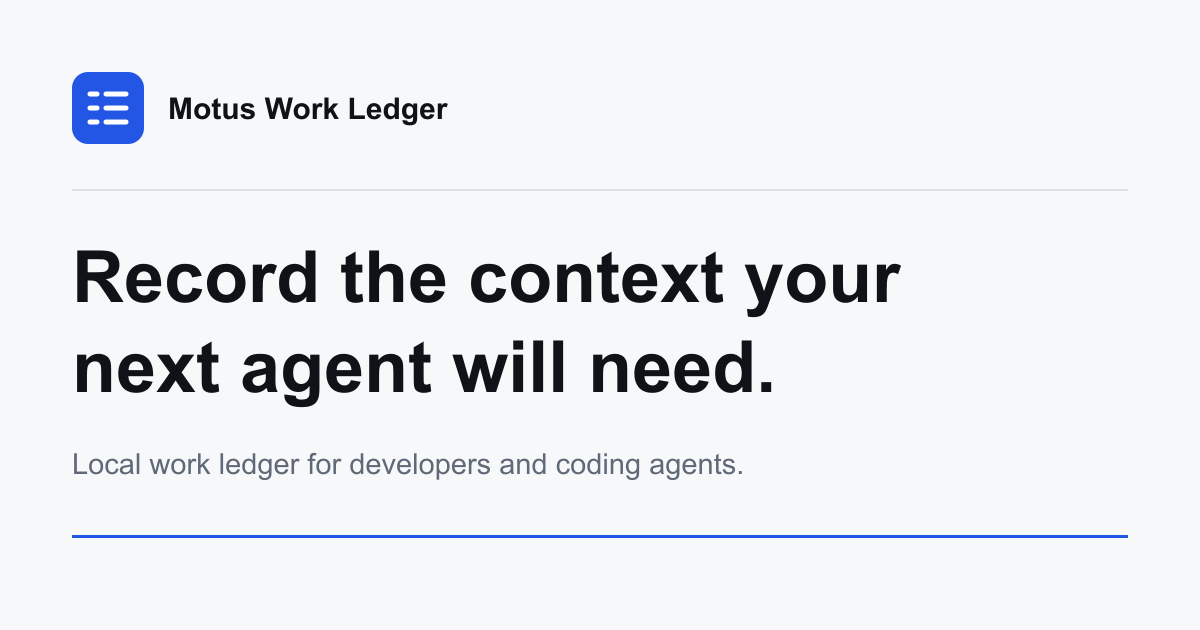
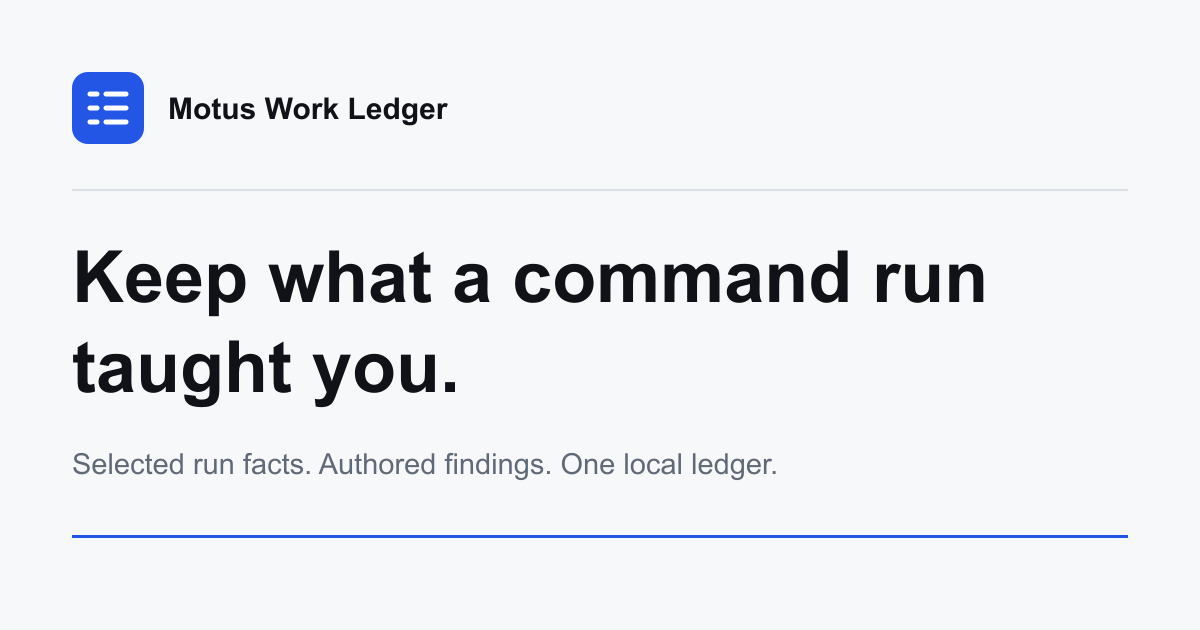
Clarify the workflow and example accessibility (#19)

Changed region(s): [[0.0617, 0.3921, 0.8325, 0.5127], [0.0617, 0.5429, 0.6475, 0.6635], [0.0617, 0.7238, 0.6475, 0.754]]

diff --git a/site/index.html b/site/index.html
@@ -3,15 +3,15 @@
 <head>
   <meta charset="utf-8">
   <meta name="viewport" content="width=device-width, initial-scale=1">
-  <title>Motus Work Ledger | Reusable context for later work</title>
-  <meta name="description" content="Motus gives developers and coding agents a local, searchable record of command runs and the context tied to them.">
+  <title>Motus Work Ledger | Keep what a command run taught you</title>
+  <meta name="description" content="Motus links selected command-run facts to findings you write, then lets you search both later in one local ledger.">
   <link rel="canonical" href="https://www.motussupra.com/">
   <meta property="og:type" content="website">
   <meta property="og:title" content="Motus Work Ledger">
-  <meta property="og:description" content="A local, searchable record of command runs and the context tied to them.">
+  <meta property="og:description" content="Selected run facts and authored findings, connected in one local ledger.">
   <meta property="og:url" content="https://www.motussupra.com/">
   <meta property="og:image" content="https://www.motussupra.com/assets/og-image.png">
-  <meta property="og:image:alt" content="Motus Work Ledger. Reusable context for later developer and agent work.">
+  <meta property="og:image:alt" content="Motus Work Ledger. Keep what a command run taught you.">
   <meta name="twitter:card" content="summary_large_image">
   <meta name="theme-color" content="#f7f8fa">
   <link rel="icon" href="./assets/favicon.svg" type="image/svg+xml">
@@ -31,7 +31,7 @@
         <span>Motus Work Ledger</span>
       </a>
       <nav class="site-nav" aria-label="Primary navigation">
-        <a href="#workflow">Workflow</a>
+        <a class="nav-workflow" href="#workflow">Workflow</a>
         <a href="#example">Example</a>
         <a href="#install">Install</a>
         <a href="https://github.com/motus-os/work-ledger">GitHub</a>
@@ -42,8 +42,9 @@
   <main id="main">
     <section class="hero shell" aria-labelledby="hero-title">
       <div class="hero-copy">
-        <h1 id="hero-title">Record the context your next agent will need.</h1>
-        <p class="hero-lede">Motus gives developers and coding agents a local, searchable record of command runs and the context tied to them.</p>
+        <h1 id="hero-title">Keep what a command run taught you.</h1>
+        <p class="hero-lede">Motus records selected run facts and links them to a finding you write. Search later for the finding and recorded run ID.</p>
+        <p class="hero-boundary">Local CLI. No account or server. No arguments or raw output stored.</p>
       </div>
 
       <figure class="product-flow" id="workflow" aria-labelledby="workflow-title">
@@ -64,11 +65,11 @@
                   <path d="M5 3.5h10.5L19 7v13.5H5z"></path>
                   <path d="M15.5 3.5V7H19M8.5 11h7M8.5 14.5h5M8.5 18h3"></path>
                 </svg>
-                <span>Context added</span>
+                <span>Finding added</span>
               </div>
             </div>
             <h2 id="work-now-title">Run the command through Motus</h2>
-            <p>Motus records the outcome and, when available, the repository and commit. A developer or agent adds the context worth keeping.</p>
+            <p>Motus records repository, commit, and outcome when available. You add a finding when the run taught you something worth reusing.</p>
           </section>
 
           <span class="workflow-arrow" aria-hidden="true">
@@ -95,7 +96,7 @@
                 </div>
                 <div>
                   <span>Finding</span>
-                  <small>context for later work</small>
+                  <small>what the run taught you</small>
                 </div>
               </div>
             </div>
@@ -126,11 +127,11 @@
               </div>
               <div class="workflow-result-pair">
                 <span>Finding</span>
-                <span>Run ID</span>
+                <span>Recorded run ID</span>
               </div>
             </div>
             <h2 id="work-later-title">Search before similar work</h2>
-            <p>A developer or agent searches the ledger. Motus returns the finding and run ID before the next action.</p>
+            <p>Search returns the finding and recorded run ID before the next action.</p>
           </section>
         </div>
       </figure>
@@ -143,8 +144,8 @@
 
     <section class="section shell" id="example" aria-labelledby="example-title">
       <div class="section-intro">
-        <h2 id="example-title">The next agent did not repeat the mistake.</h2>
-        <p>While building Motus, an agent treated the 92 commits in a shallow clone as the repository's full history. Motus kept the correction.</p>
+        <h2 id="example-title">The earlier finding changed the next check.</h2>
+        <p>On July 27, 2026, <code>git rev-list --count HEAD</code> returned 92 in a shallow clone of the archived <a href="https://github.com/motus-os/motus">motus-os/motus</a> <code>main</code> branch. The finding required a GitHub check before calling that count complete.</p>
       </div>
 
       <div class="example-story" aria-label="A later agent avoids repeating an unsupported repository-history conclusion">
@@ -187,7 +188,7 @@
               <span>Motus</span>
             </div>
             <p>Check whether the clone is shallow. Compare the same branch with GitHub before drawing conclusions.</p>
-            <cite>Linked to the original run</cite>
+            <cite>Linked to the origin run</cite>
           </div>
         </blockquote>
 
@@ -214,7 +215,7 @@
                   <path d="M5 3.5h10.5L19 7v13.5H5z"></path>
                   <path d="M15.5 3.5V7H19M8.5 11h7M8.5 14.5h5"></path>
                 </svg>
-                <span>Finding + source-run ID retrieved</span>
+                <span>Finding + origin run ID retrieved</span>
               </div>
             </div>
             <div class="example-check-step">
@@ -235,13 +236,13 @@
         </article>
       </div>
 
-      <p class="example-context">The next agent found the correction and its source run before reporting, then checked the current repository. Keep the standing rule in project documentation; Motus keeps the finding, origin run, and resolving run.</p>
+      <p class="example-context">A later review retrieved the finding and origin run ID, then paginated GitHub's <code>main</code> commits API: 512. Put standing rules in documentation; use Motus when the run reference matters.</p>
     </section>
 
     <section class="section shell" id="install" aria-labelledby="install-title">
       <div class="section-intro">
         <h2 id="install-title">Start with a command you already run</h2>
-        <p><a href="https://github.com/motus-os/work-ledger/releases/latest">Download Motus</a> for macOS, Linux, or Windows, or install it with Go.</p>
+        <p><a href="https://github.com/motus-os/work-ledger/releases/latest">Download Motus</a> for macOS, Linux, or Windows. Source installation requires Go 1.26.5 or newer.</p>
       </div>
 
       <div class="start-commands" aria-label="Install and first-use commands">
@@ -253,6 +254,7 @@ $ motus version</code></pre>
         <div>
           <h3>Use Motus</h3>
           <pre tabindex="0"><code>$ motus wrap -- npm test
+$ # Create finding.txt with one concise finding.
 $ motus finding add --run run_... --file finding.txt
 $ motus finding list --query "generated file"
 $ motus finding show finding_...</code></pre>
@@ -261,7 +263,7 @@ $ motus finding show finding_...</code></pre>
 
       <p class="documentation-link"><a href="https://github.com/motus-os/work-ledger#readme">Read the documentation</a></p>
       <p class="ledger-location">Motus writes <code>.motus/ledger.db</code> at the Git root by default. Add <code>.motus/</code> to <code>.gitignore</code>.</p>
-      <p class="trust-line">Share or restore the state directory. Put the search step in your agent or workflow instructions. No account or server is required.</p>
+      <p class="trust-line">State is local unless shared. Add search to workflow instructions. No account or server.</p>
     </section>
   </main>
 

diff --git a/site/assets/site.css b/site/assets/site.css
@@ -211,6 +211,13 @@ dd {
   line-height: 1.65;
 }
 
+.hero-boundary {
+  margin: 1rem 0 0;
+  color: var(--muted);
+  font-size: 0.9rem;
+  font-weight: 620;
+}
+
 .hero-actions {
   display: flex;
   flex-wrap: wrap;
@@ -295,7 +302,7 @@ dd {
 
 .workflow-artifact {
   position: relative;
-  height: 8.7rem;
+  min-height: 9rem;
 }
 
 .workflow-capture {
@@ -458,6 +465,8 @@ dd {
 }
 
 .workflow-retrieval {
+  display: flex;
+  flex-direction: column;
   padding: 0.35rem 0 0 0.4rem;
 }
 
@@ -493,18 +502,18 @@ dd {
 
 .workflow-query code {
   min-width: 0;
-  overflow: hidden;
+  overflow: visible;
   color: var(--terminal-text);
   font-size: 0.65rem;
-  text-overflow: ellipsis;
-  white-space: nowrap;
+  line-height: 1.35;
+  overflow-wrap: anywhere;
+  white-space: normal;
 }
 
 .workflow-result-pair {
-  position: absolute;
-  right: 0;
-  bottom: 0;
+  position: relative;
   width: 82%;
+  margin: 0.75rem 0 0 auto;
   padding: 0.75rem 0.85rem 0.75rem 1rem;
   border: 1px solid #c7d3f6;
   border-radius: 7px;
@@ -723,11 +732,12 @@ dd {
 
 .example-query code {
   min-width: 0;
-  overflow: hidden;
+  overflow: visible;
   color: var(--terminal-text);
   font-size: 0.62rem;
-  text-overflow: ellipsis;
-  white-space: nowrap;
+  line-height: 1.35;
+  overflow-wrap: anywhere;
+  white-space: normal;
 }
 
 .example-retrieval-result {
@@ -1147,7 +1157,7 @@ dd {
     font-size: 0.77rem;
   }
 
-  .site-nav a:nth-child(-n + 2) {
+  .site-nav .nav-workflow {
     display: none;
   }
 

diff --git a/site/privacy.html b/site/privacy.html
@@ -46,7 +46,7 @@
 
       <section aria-labelledby="control-title">
         <h2 id="control-title">Your state directory</h2>
-        <p>SQLite may create <code>ledger.db-wal</code> and <code>ledger.db-shm</code> beside <code>ledger.db</code>. Add <code>.motus/</code> to <code>.gitignore</code> when the default state should remain outside version control. Anyone who can read the state directory or its backups can read the findings stored there.</p>
+        <p>SQLite may temporarily create <code>ledger.db-journal</code> beside <code>ledger.db</code> during a write. Add <code>.motus/</code> to <code>.gitignore</code> when the default state should remain outside version control. Anyone who can read the state directory or its backups can read the findings stored there.</p>
         <p>If you place the state directory in shared or synchronized storage, that system's privacy and retention rules apply. To remove Motus state, stop processes using it and delete the entire state directory and any backups you control.</p>
       </section>
 

diff --git a/README.md b/README.md
@@ -17,8 +17,11 @@ $ npm test
 local port, and renders all four pages in Chromium from 280 through 2560
 pixels, including both sides of the main responsive breakpoint. It checks
 color and reduced-motion preferences, keyboard focus, text spacing, axe-core,
-custom 404 behavior, console errors, unexpected network requests, broken
-anchors, and horizontal overflow.
+custom 404 behavior, mobile navigation, console errors, unexpected network
+requests, broken anchors, horizontal overflow, and nested text clipping. The
+real example's four retrieval facts are checked in the accessibility tree; the
+same assertion is required to fail when their container is hidden from that
+tree.
 
 Before publishing, run the same browser checks in Chromium, Firefox, and
 WebKit:
